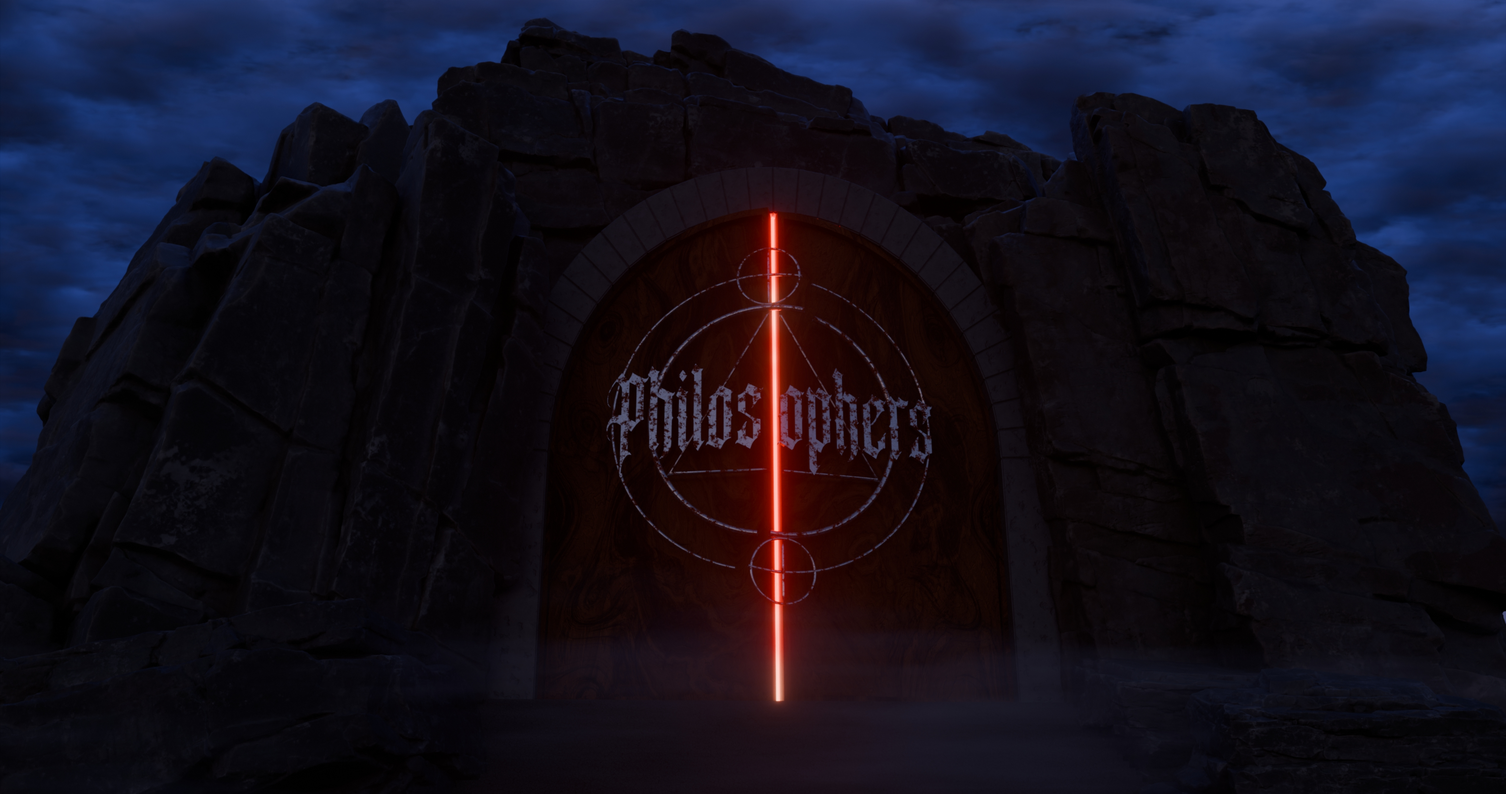
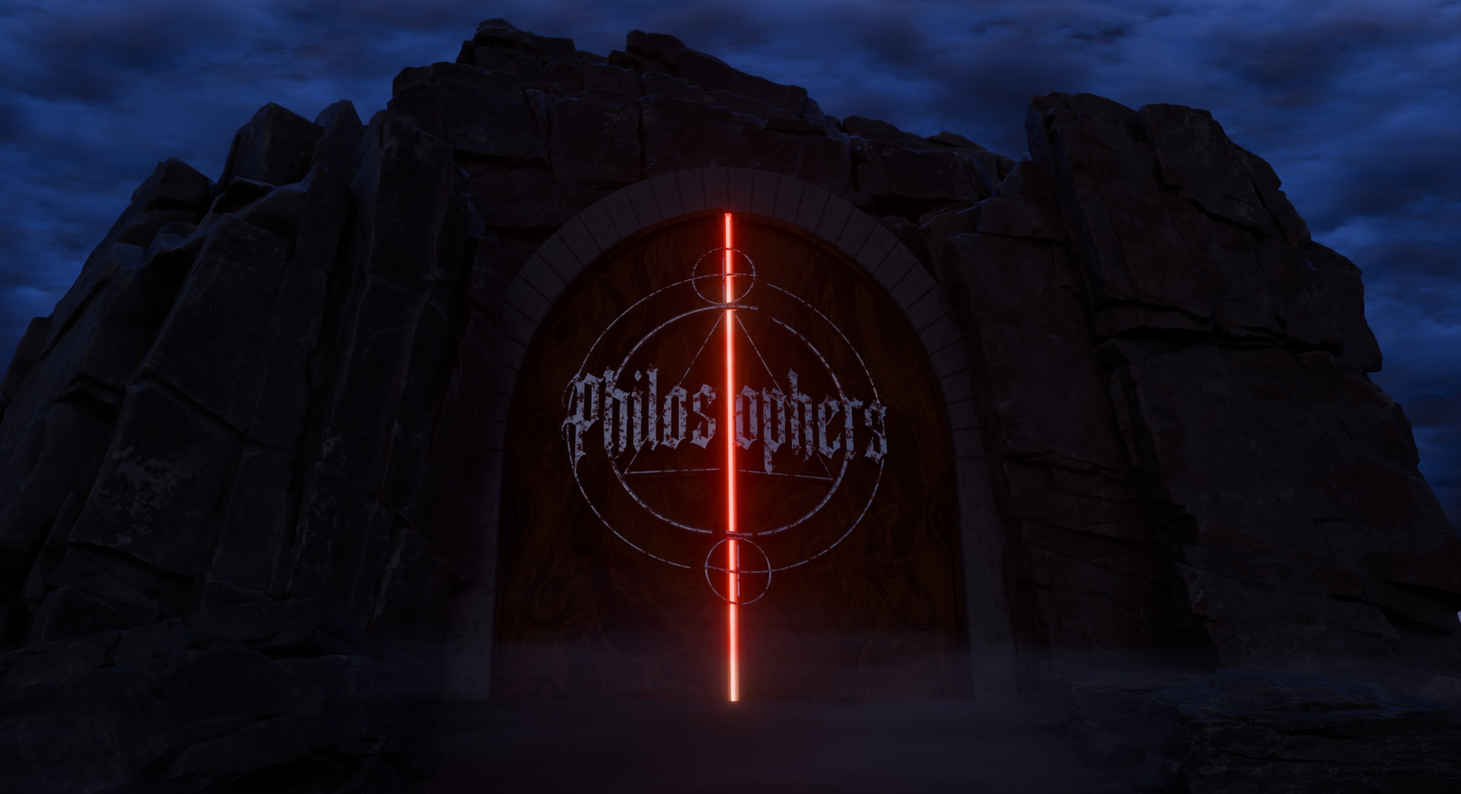
styles/animationen angepasst

diff --git a/style/styles.css b/style/styles.css
@@ -50,7 +50,7 @@ body::after {
     background: black;
     opacity: 0;
 
-    animation: fadeOutOverlay 4s ease;
+    animation: fadeOutOverlay 1s ease;
     pointer-events: none;
 }
 
@@ -80,12 +80,13 @@ body::after {
 
 /* Logo */
 .logo {
-    position: fixed;
+    position: absolute;
     top: 15px;
     left: calc(50% - 160px);
     height: 320px;
     width: 320px;
     border-radius: 25%;
+    border: 1px solid rgb(143, 151, 196);
     display: flex;
     justify-content: space-between;
     align-items: center;
@@ -95,14 +96,11 @@ body::after {
     z-index: 10;
     background: rgba(0,0,0,0.5);
     backdrop-filter: blur(10px);
-    animation: fadeIn 6s ease-in-out;
+    animation: fadeIn 4s ease-in-out;
 }
 
 @keyframes fadeIn {
     0% {
-        opacity: 0;
-    }
-    50% {
         opacity: 0;
     }
     100% {
@@ -132,8 +130,7 @@ body::after {
 
 .logo a span {
     color: rgb(234, 234, 232);
-    animation: fadeInLogoText 10s ease-in-out;
-
+    animation: fadeInLogoText 4s ease-in-out;
 }
 
 @keyframes fadeInLogoText {
@@ -168,7 +165,6 @@ body::after {
     width: 100%;
     height: 100%;
     animation: rotateOrbit 4s linear;
-    animation-delay: 3s;
 }
 @keyframes rotateOrbit {
 from {
@@ -223,7 +219,6 @@ transform: rotate(360deg);
     height: 119px;
     z-index: 1;
     animation: rotatetriangle 4s linear;
-    animation-delay: 3s;
 }
 @keyframes rotatetriangle {
 from {
@@ -350,39 +345,6 @@ h1 {
     position: relative;
 }
 
-/* Feuerkerne unten */
-.fire-core {
-    /* position: absolute;
-    bottom: 0;
-    width: 200px;
-    height: 200px;
-    transform: translateX(-50%);
-    background: radial-gradient(circle, rgba(255,120,0,0.9) 0%, rgba(255,60,0,0.6) 40%, rgba(0,0,0,0) 70%);
-    filter: blur(40px);
-    animation: firePulse 4s infinite ease-in-out; */
-}
-
-/* @keyframes firePulse {
-    0% { transform: translateX(-50%) scale(1); opacity: 0.8; }
-    50% { transform: translateX(-50%) scale(1.2); opacity: 1; }
-    100% { transform: translateX(-50%) scale(1); opacity: 0.8; }
-} */
-
-/* Glühen */
-.fire-glow {
-    /* position: absolute;
-    inset: 0;
-    background: radial-gradient(circle at 50% 90%, rgba(255,80,0,0.15), transparent 70%);
-    filter: blur(120px);
-    animation: glowDrift 12s infinite linear; */
-}
-
-/* @keyframes glowDrift {
-    0% { transform: translate(0, 0); }
-    50% { transform: translate(2%, -2%); }
-    100% { transform: translate(0, 0); }
-} */
-
 /* 🔥 Funken */
 .fire-sparks {
     position: absolute;
@@ -427,7 +389,7 @@ h1 {
     justify-content: center;
     padding: 20px;
     z-index: 5;
-    animation: fadeInLogoText 10s ease-in-out;
+    animation: fadeInLogoText 4s ease-in-out;
 }
 
 

diff --git a/style/index.css b/style/index.css
@@ -97,10 +97,10 @@
     .door-gap {
       position: absolute;
       top: 26.7%;
-      left: calc(50.5% + 5px);
+      left: calc(50% - 0.25%);
       transform: rotate(-0.7deg);
       height: 61.6%;
-      width: 15px;
+      width: 0.7%;
       border-radius: 5px;
       /* border: 2px #c02306 solid; */
       background: 
@@ -122,37 +122,25 @@
     }
 
 
-    @media (min-aspect-ratio: 180/100) {
+    /* @media (min-aspect-ratio: 180/100) {
       .door-gap {
         left: calc(50.9%);
       }
-    }
+    } */
 
     @keyframes pulse {
       0%, 100% { box-shadow: 0 0 25px 8px #c02306; }
       50% { box-shadow: 0 0 40px 14px #c0220652; }
     }
 
-    /* .door-gap {
-      width: 20px;
-      box-shadow: 0 0 70px 25px #ff6a00;
-    } */
-
     /* Hover-Text */
     .hover-text-1,
-    .hover-text-1-R,
-    .hover-text-1-L,
     .hover-text-2,
-    .hover-text-2-R,
-    .hover-text-2-L,
-    .hover-text-2-R,
-    .hover-text-3,
-    .hover-text-3-R,
-    .hover-text-3-L {
+    .hover-text-3 {
       position: absolute;
-      top: 44%;
-      left: calc(50% + 40px);
-      font-size: 2rem;
+      top: 40%;
+      left: 57%;
+      /* font-size: 2rem; */
       font-weight: 300;
       font-family: 'angel wish';
       opacity: 0;
@@ -163,22 +151,11 @@
       pointer-events: none;
     }
 
-    .hover-text-1-R,
-    .hover-text-2-R,
-    .hover-text-3-R{
-      animation: portalTextRechts 6s infinite;
-    }
-
-    .hover-text-1-L,
-    .hover-text-2-L,
-    .hover-text-3-L{
-      animation: portalTextLinks 6s infinite;
-    }
-
     .hover-text-1,
     .hover-text-2,
     .hover-text-3 { 
       animation: portalText 6s infinite;
+      font-size: 10vmin;
     }
     
     .hover-text-1 {
@@ -187,13 +164,13 @@
 
     .hover-text-2 {
       animation-delay: 2s;
-      left: calc(50% - 40px);
-      top: 48%;
+      left: calc(43% - 10vmin);
+      top: 50%;
     }
 
     .hover-text-3 {
       animation-delay: 4s;
-      top: 52%;
+      top: 60%;
     }
 
     /* .hover-text-1-1,

diff --git a/index.html b/index.html
@@ -5,7 +5,7 @@
   <meta name="viewport" content="width=device-width, initial-scale=1.0">
   <title>Philosophers</title>
 
-  <link rel="stylesheet" href="./style/index.css?v=2026.09.25">
+  <link rel="stylesheet" href="./style/index.css?v=2026.09.29">
 </head>
 
 <body>
@@ -44,6 +44,6 @@
   </div>
   </div>
 
-  <script src="./script/index.js?v=2026.09.25"></script>
+  <script src="./script/index.js?v=2026.09.29"></script>
   </body>
 </html>

diff --git a/html/news.html b/html/news.html
@@ -4,7 +4,7 @@
     <meta charset="UTF-8">
     <meta name="viewport" content="width=device-width, initial-scale=1.0">
     <title>Philosophers</title>
-    <link rel="stylesheet" href="../style/styles.css?v=2026.09.25">
+    <link rel="stylesheet" href="../style/styles.css?v=2026.09.29">
 </head>
 <body>
   <div class="logo">
